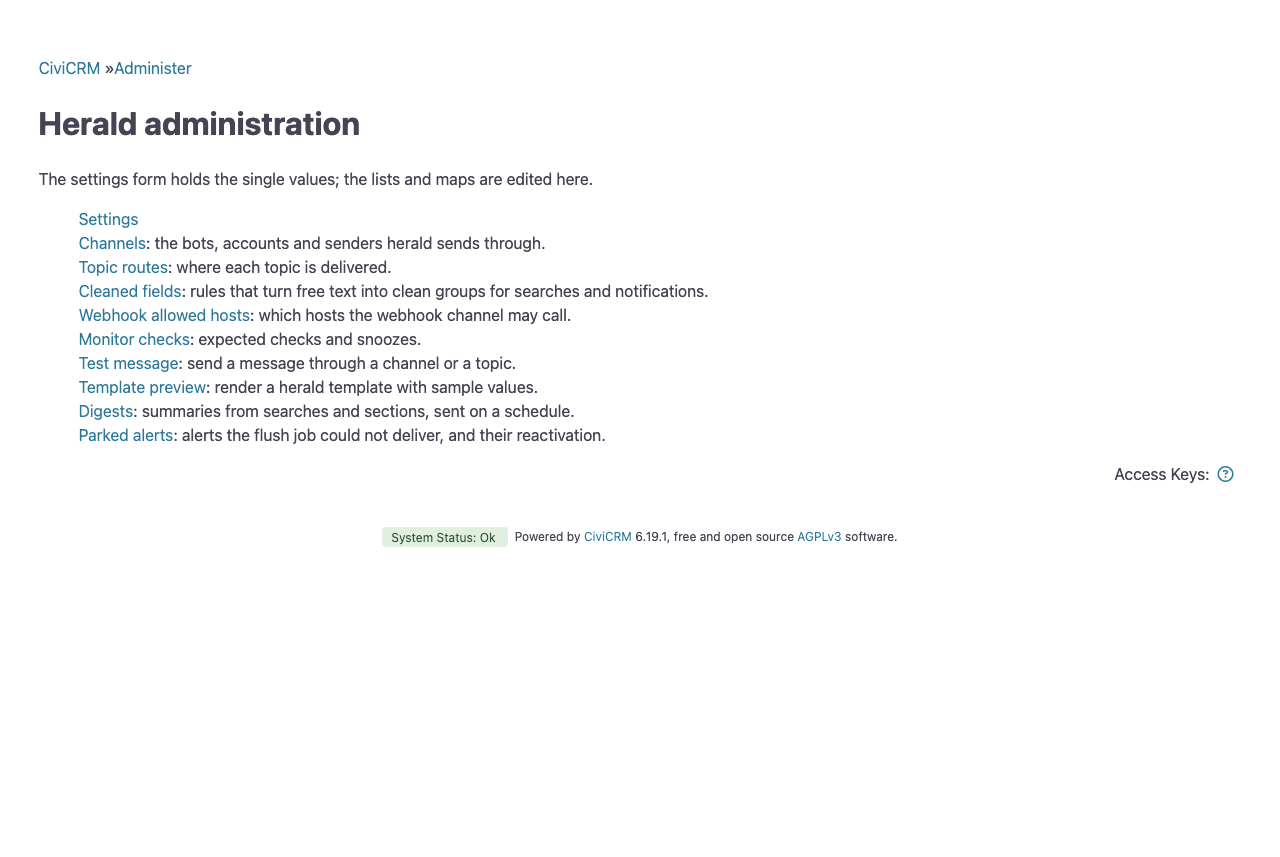
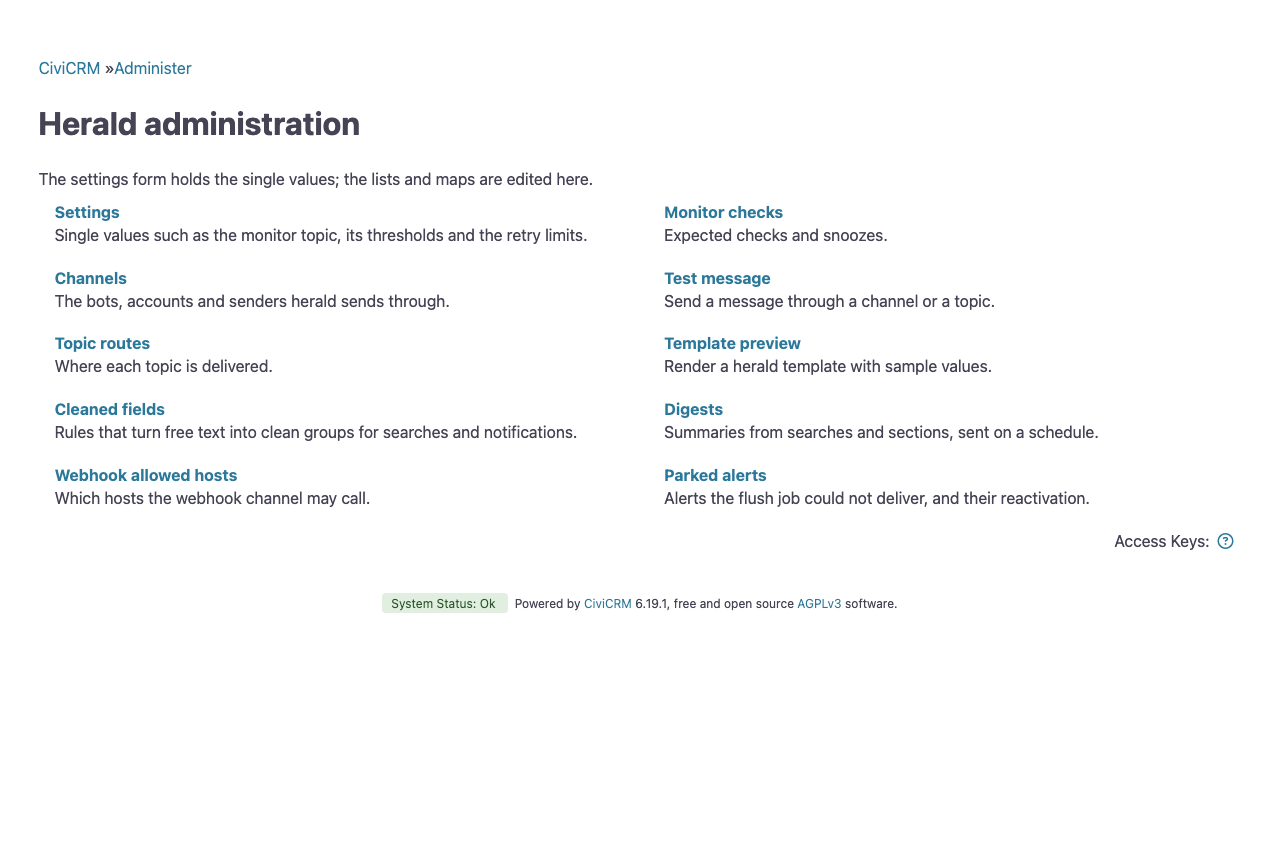
List the admin screens like core's admin console

diff --git a/ang/heraldAdmin/index.html b/ang/heraldAdmin/index.html
@@ -1,11 +1,10 @@
 <div id="bootstrap-theme" class="herald-admin">
   <h1 crm-page-title>{{:: $ctrl.ts('Herald administration') }}</h1>
   <p>{{:: $ctrl.ts('The settings form holds the single values; the lists and maps are edited here.') }}</p>
-  <ul>
-    <li ng-repeat="link in $ctrl.links">
-      <a ng-href="{{:: link.url }}">{{:: link.label }}</a><span ng-if=":: link.description"
-        >: {{:: link.description }}</span
-      >
-    </li>
-  </ul>
+  <div class="admin-section-items">
+    <dl ng-repeat="link in $ctrl.links">
+      <dt><a ng-href="{{:: link.url }}">{{:: link.label }}</a></dt>
+      <dd ng-if=":: link.description">{{:: link.description }}</dd>
+    </dl>
+  </div>
 </div>

diff --git a/Civi/Herald/Admin/AdminScreens.php b/Civi/Herald/Admin/AdminScreens.php
@@ -48,15 +48,16 @@ final class AdminScreens extends AutoService implements HookInterface {
    */
   public static function links(): array {
     $descriptions = [
-      'herald_channels' => E::ts('the bots, accounts and senders herald sends through.'),
-      'herald_topics' => E::ts('where each topic is delivered.'),
-      'herald_cleaning' => E::ts('rules that turn free text into clean groups for searches and notifications.'),
-      'herald_hosts' => E::ts('which hosts the webhook channel may call.'),
-      'herald_monitor' => E::ts('expected checks and snoozes.'),
-      'herald_test' => E::ts('send a message through a channel or a topic.'),
-      'herald_preview' => E::ts('render a herald template with sample values.'),
-      'herald_digests' => E::ts('summaries from searches and sections, sent on a schedule.'),
-      'herald_parked_alerts' => E::ts('alerts the flush job could not deliver, and their reactivation.'),
+      'herald_settings' => E::ts('Single values such as the monitor topic, its thresholds and the retry limits.'),
+      'herald_channels' => E::ts('The bots, accounts and senders herald sends through.'),
+      'herald_topics' => E::ts('Where each topic is delivered.'),
+      'herald_cleaning' => E::ts('Rules that turn free text into clean groups for searches and notifications.'),
+      'herald_hosts' => E::ts('Which hosts the webhook channel may call.'),
+      'herald_monitor' => E::ts('Expected checks and snoozes.'),
+      'herald_test' => E::ts('Send a message through a channel or a topic.'),
+      'herald_preview' => E::ts('Render a herald template with sample values.'),
+      'herald_digests' => E::ts('Summaries from searches and sections, sent on a schedule.'),
+      'herald_parked_alerts' => E::ts('Alerts the flush job could not deliver, and their reactivation.'),
     ];
     $items = \Civi\Api4\Navigation::get(checkPermissions: FALSE)
       ->addSelect('name', 'label', 'url')
@@ -86,6 +87,15 @@ final class AdminScreens extends AutoService implements HookInterface {
    */
   public static function angularSettings(): array {
     return ['links' => self::links()];
+  }
+
+  /**
+   * The overview lists its screens like core's admin console, which brings this stylesheet itself.
+   */
+  public function hook_civicrm_pageRun(\CRM_Core_Page $page): void {
+    if ($page instanceof \Civi\Angular\Page\Main && \CRM_Utils_System::currentPath() === self::BASE_PATH) {
+      \Civi::resources()->addStyleFile('civicrm', 'css/admin.css');
+    }
   }
 
   public function hook_civicrm_buildForm(string $formName, \CRM_Core_Form $form): void {

diff --git a/tests/phpunit/Civi/Herald/Admin/AdminScreensTest.php b/tests/phpunit/Civi/Herald/Admin/AdminScreensTest.php
@@ -93,8 +93,23 @@ class AdminScreensTest extends AdminTestCase {
     $this->assertStringEndsWith('civicrm/admin/herald#/channels', $links[1]['url']);
     $this->assertStringEndsWith('civicrm/admin/herald#/topics', $links[2]['url']);
     $this->assertMatchesRegularExpression('#civicrm/admin/herald/digests[?&]reset=1$#', $links[8]['url']);
-    // Every screen but the settings form says what it is for.
-    $this->assertNotContains('', array_column(array_slice($links, 1), 'description'));
+    // Each entry is a dt with its dd; a bare dt breaks the definition list.
+    $this->assertNotContains('', array_column($links, 'description'));
+  }
+
+  public function testTheOverviewLoadsTheAdminConsoleStyles(): void {
+    $loaded = static function (string $path): bool {
+      $_GET['q'] = $path;
+      \Civi::service('herald.admin_screens')->hook_civicrm_pageRun(new \Civi\Angular\Page\Main());
+      return \CRM_Core_Region::instance(\CRM_Core_Resources::DEFAULT_REGION)->get('civicrm:css/admin.css') !== NULL;
+    };
+    try {
+      $this->assertFalse($loaded('civicrm/admin/other'));
+      $this->assertTrue($loaded(AdminScreens::BASE_PATH));
+    }
+    finally {
+      unset($_GET['q']);
+    }
   }
 
   public function testTheSettingsPageLinksTheScreens(): void {
